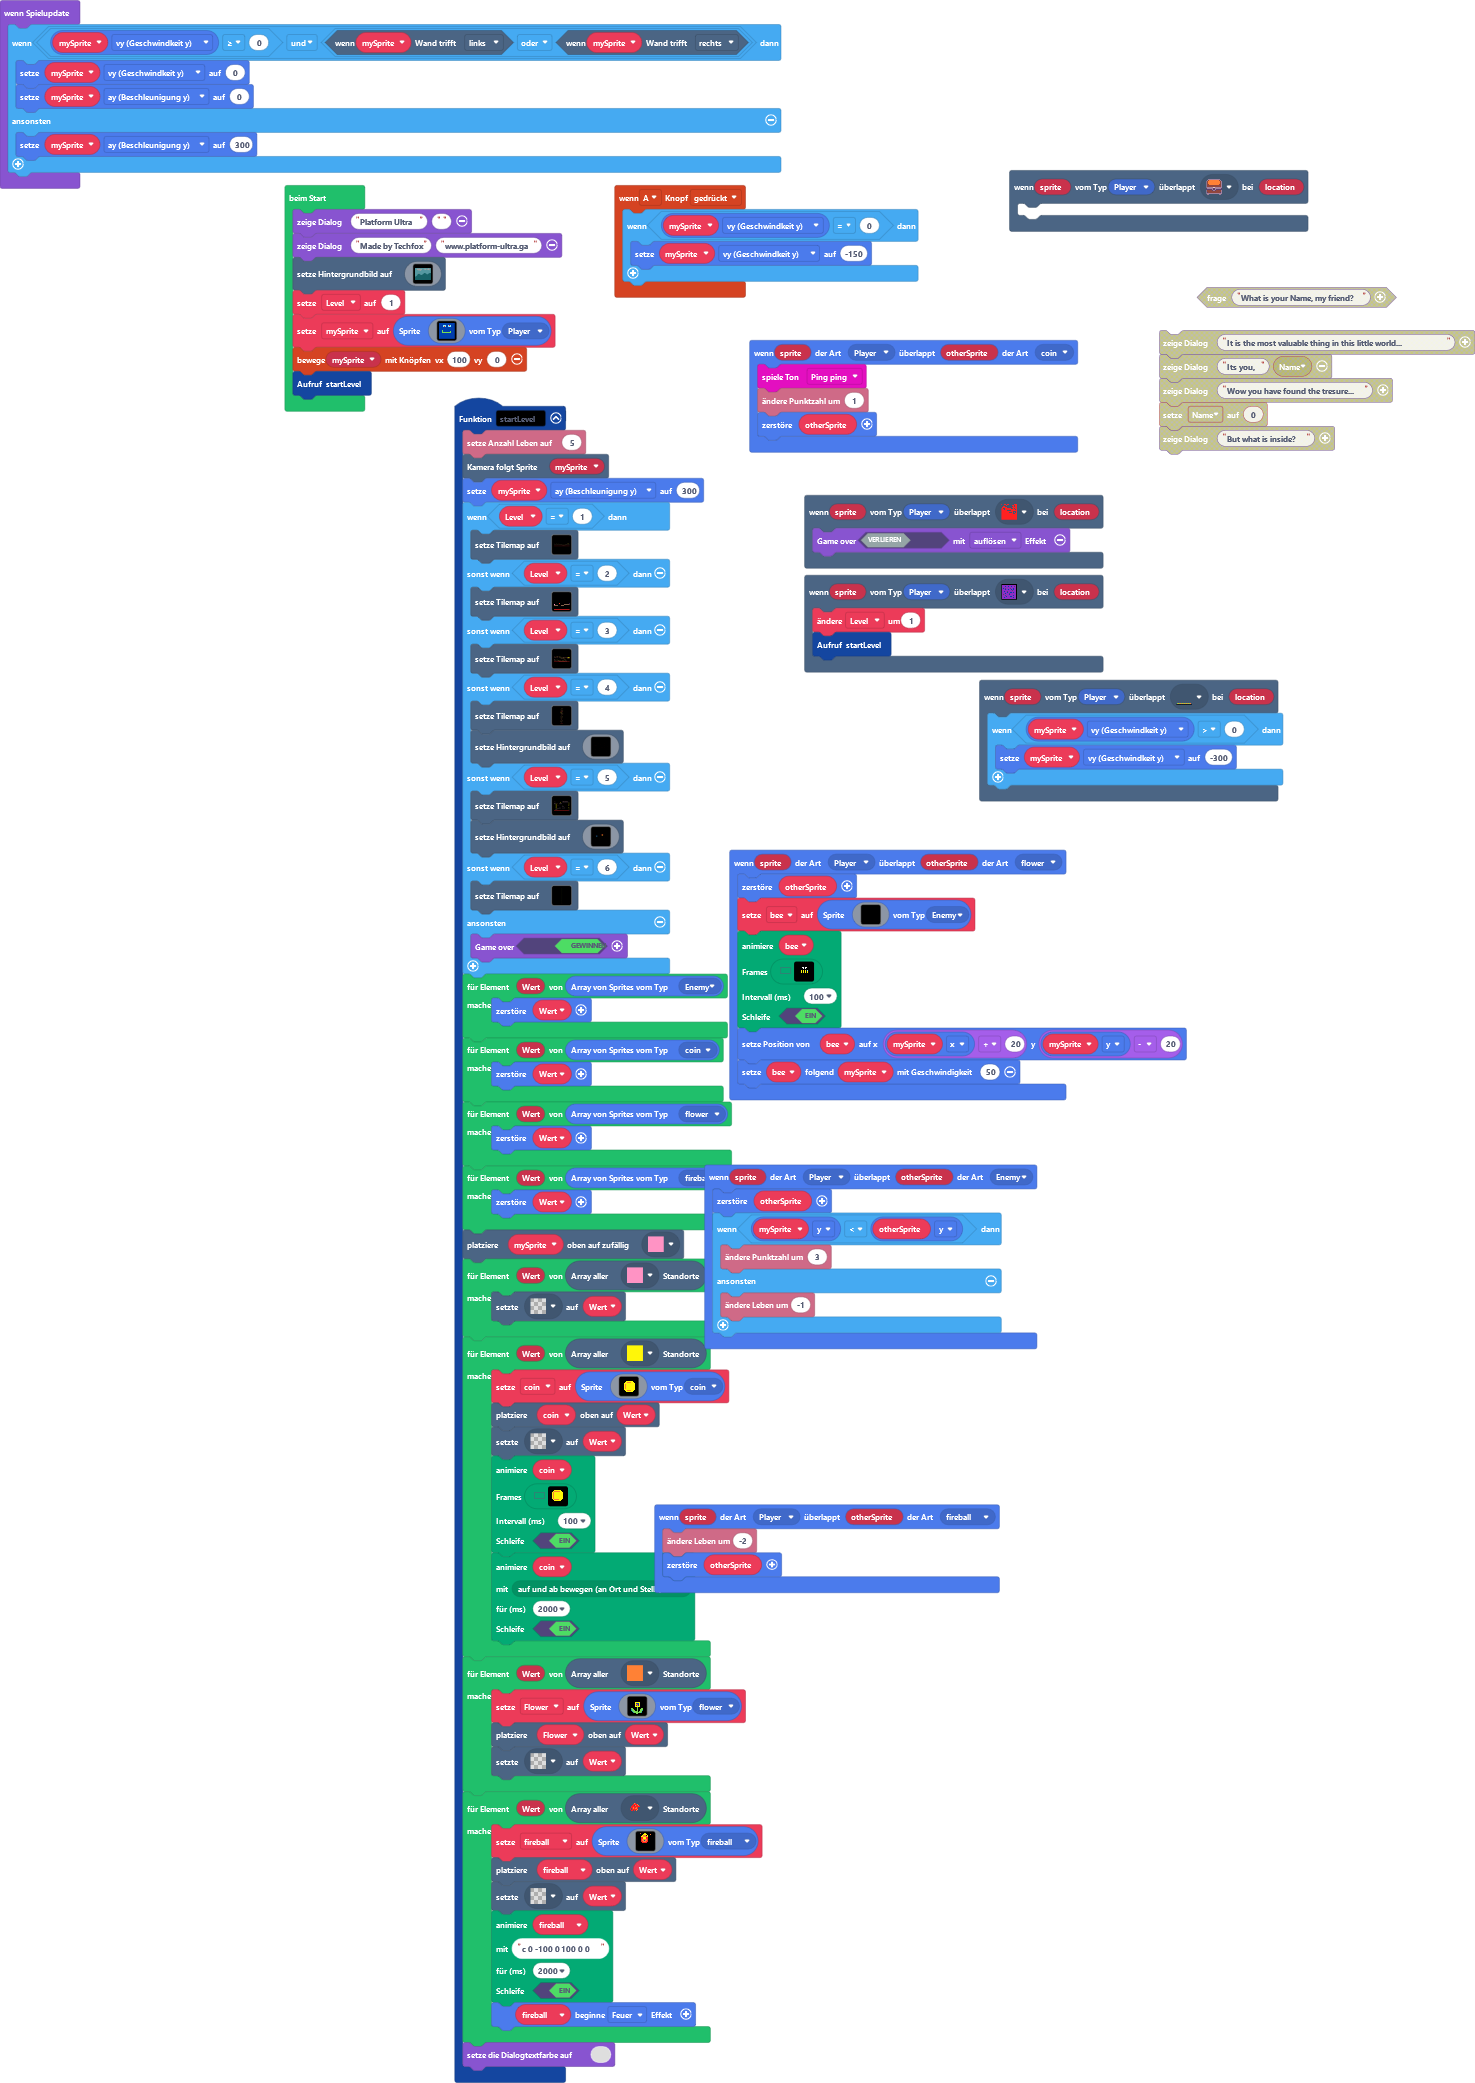
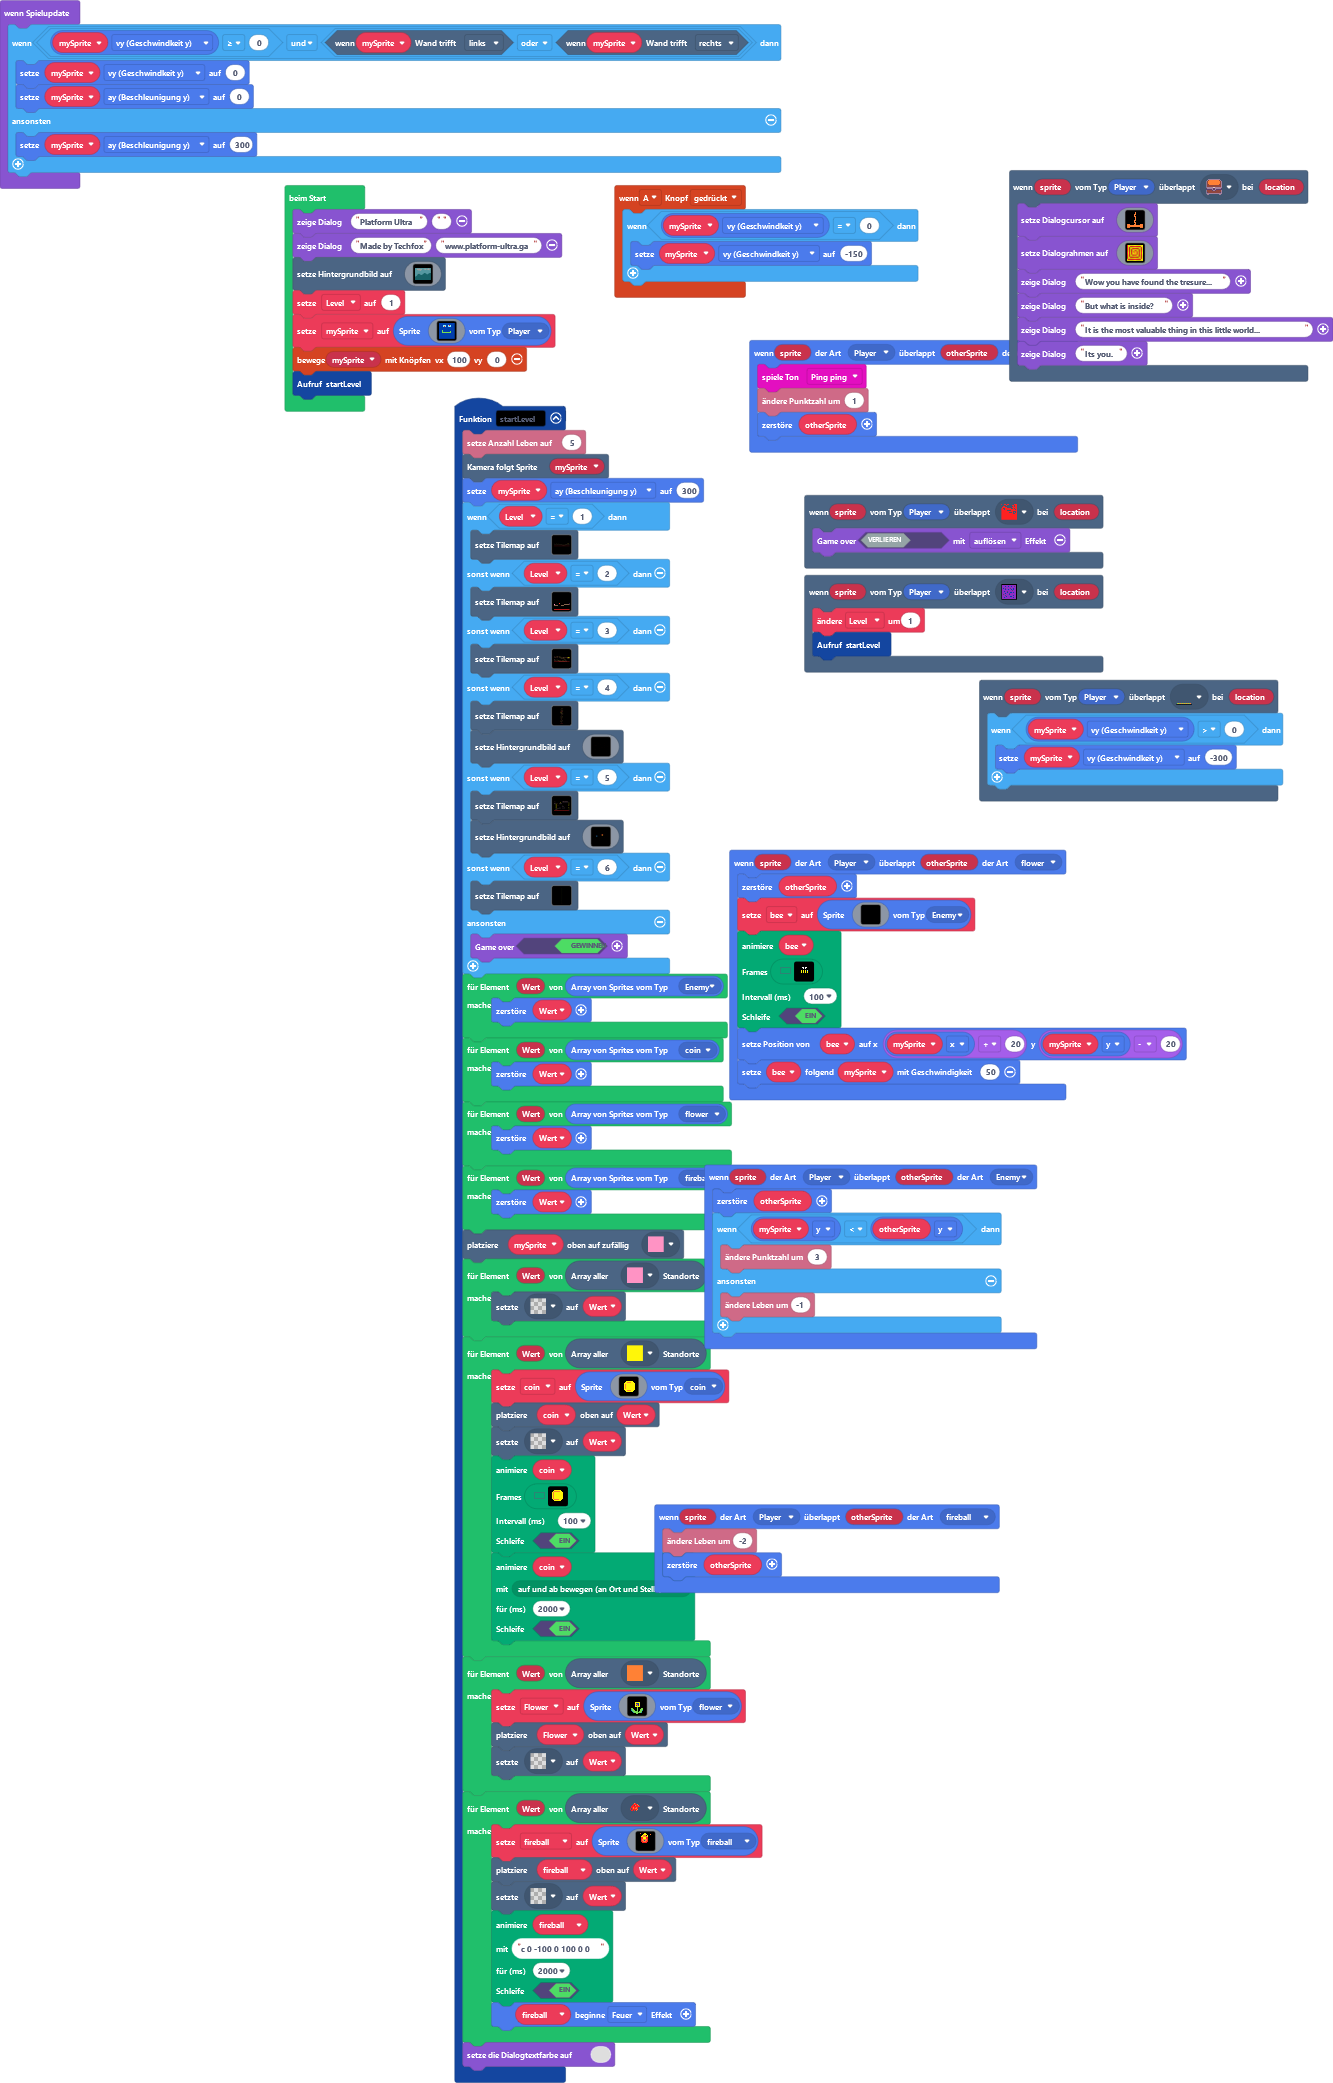
Aktualisiere main.blocks, main.ts

Changed region(s): [[0.0, 0.0, 1.0, 1.0]]

diff --git a/main.ts b/main.ts
@@ -16,7 +16,45 @@ scene.onOverlapTile(SpriteKind.Player, assets.tile`Portal`, function (sprite, lo
     startLevel()
 })
 scene.onOverlapTile(SpriteKind.Player, sprites.dungeon.chestClosed, function (sprite, location) {
-	
+    game.setDialogCursor(img`
+        . . . . . . . . 4 . . . . . . . 
+        . . . . . . . . 4 . . . . . . . 
+        . . . . . . . 4 4 . . . . . . . 
+        . . . . . . . 4 . . . . . . . . 
+        . . . . . . . 4 4 . . . . . . . 
+        . . . . . . . . 4 . . . . . . . 
+        . . . . . . . . 4 . . . . . . . 
+        . . . . . . . . 4 . . . . . . . 
+        . . . . . . . 4 4 . . . . . . . 
+        . . . . . . . 4 . . . . . . . . 
+        . . . . . . . 4 4 . . . . . . . 
+        . . . . . . . . 4 . . . . . . . 
+        4 4 4 . . . . 4 4 . . . . 4 4 4 
+        4 4 4 4 4 4 4 4 4 4 4 4 4 4 4 4 
+        4 4 4 4 4 4 4 4 4 4 4 4 4 4 4 4 
+        4 4 4 . . . . . . . . . . 4 4 4 
+        `)
+    game.setDialogFrame(img`
+        2 5 5 5 5 5 5 5 5 5 5 5 5 5 5 
+        2 5 5 2 2 2 2 2 2 2 2 2 2 5 5 
+        2 5 2 5 5 5 5 5 5 5 5 5 5 2 5 
+        2 5 2 5 5 2 2 2 2 2 2 5 5 2 5 
+        2 5 2 5 2 5 5 5 5 5 5 2 5 2 5 
+        2 5 2 5 2 5 5 2 2 5 5 2 5 2 5 
+        2 5 2 5 2 5 2 5 5 2 5 2 5 2 5 
+        2 5 2 5 2 5 5 2 5 2 5 2 5 2 5 
+        2 5 2 5 2 5 5 5 5 2 5 2 5 2 5 
+        2 5 2 5 5 2 2 2 2 5 5 2 5 2 5 
+        2 5 2 5 5 5 5 5 5 5 5 2 5 2 5 
+        2 5 5 2 2 2 2 2 2 2 2 5 5 2 5 
+        2 5 5 5 5 5 5 5 5 5 5 5 5 2 5 
+        5 2 2 2 2 2 2 2 2 2 2 2 2 5 5 
+        5 5 5 5 5 5 5 5 5 5 5 5 5 5 5 
+        `)
+    game.splash("Wow you have found the tresure...")
+    game.splash("But what is inside?")
+    game.splash("It is the most valuable thing in this little world...")
+    game.splash("Its you.")
 })
 sprites.onOverlap(SpriteKind.Player, SpriteKind.coin, function (sprite, otherSprite) {
     music.baDing.play()
